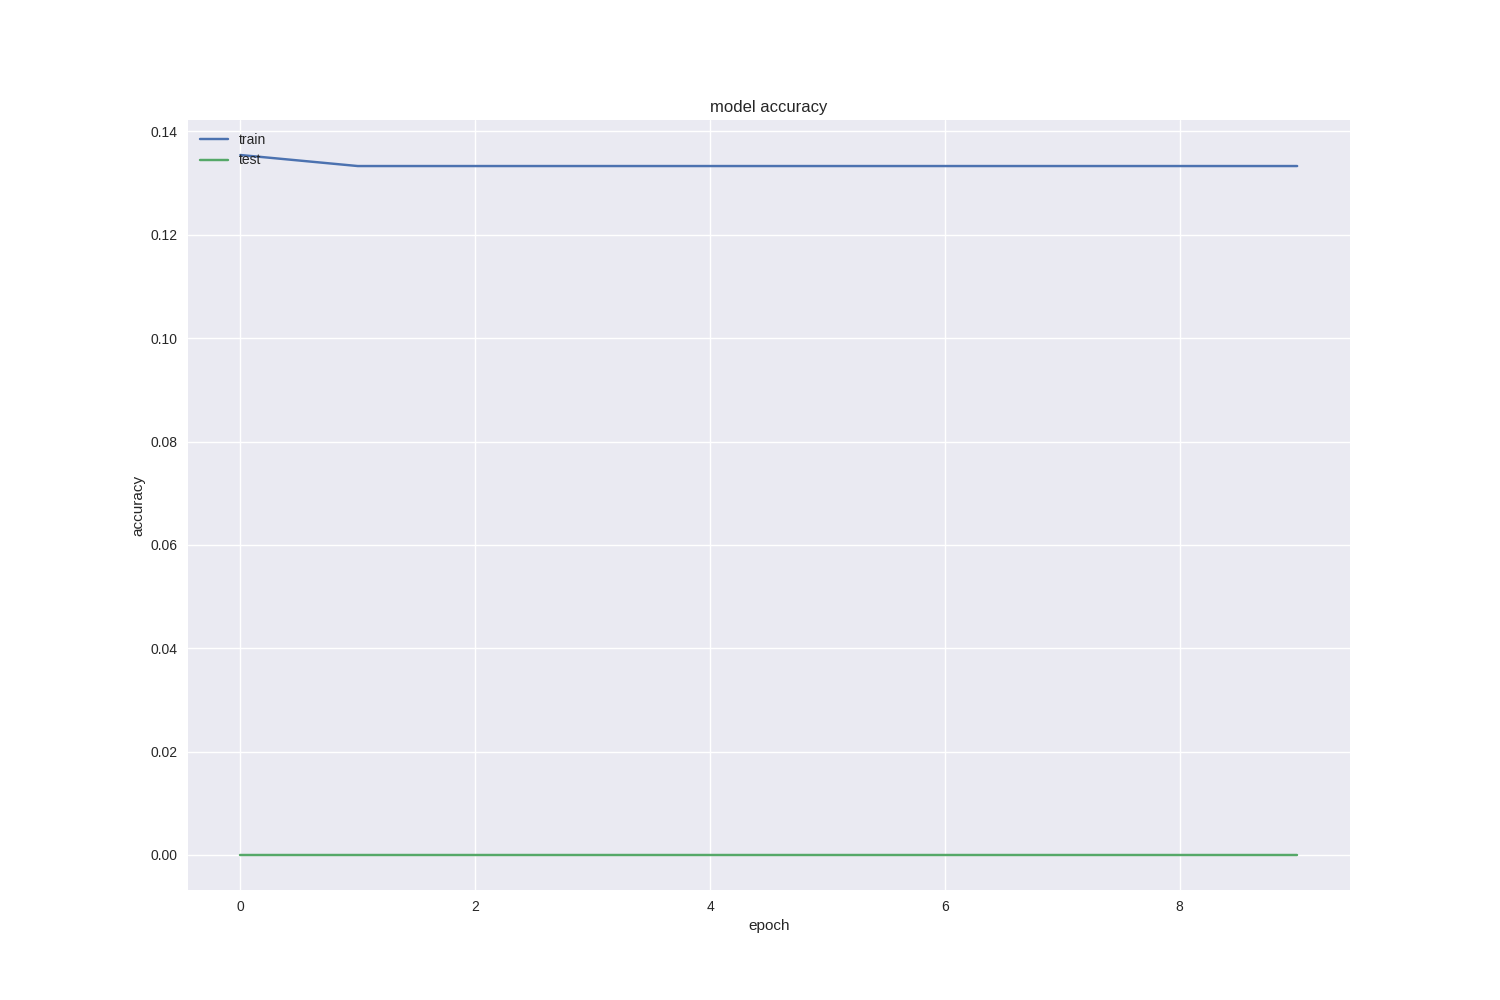
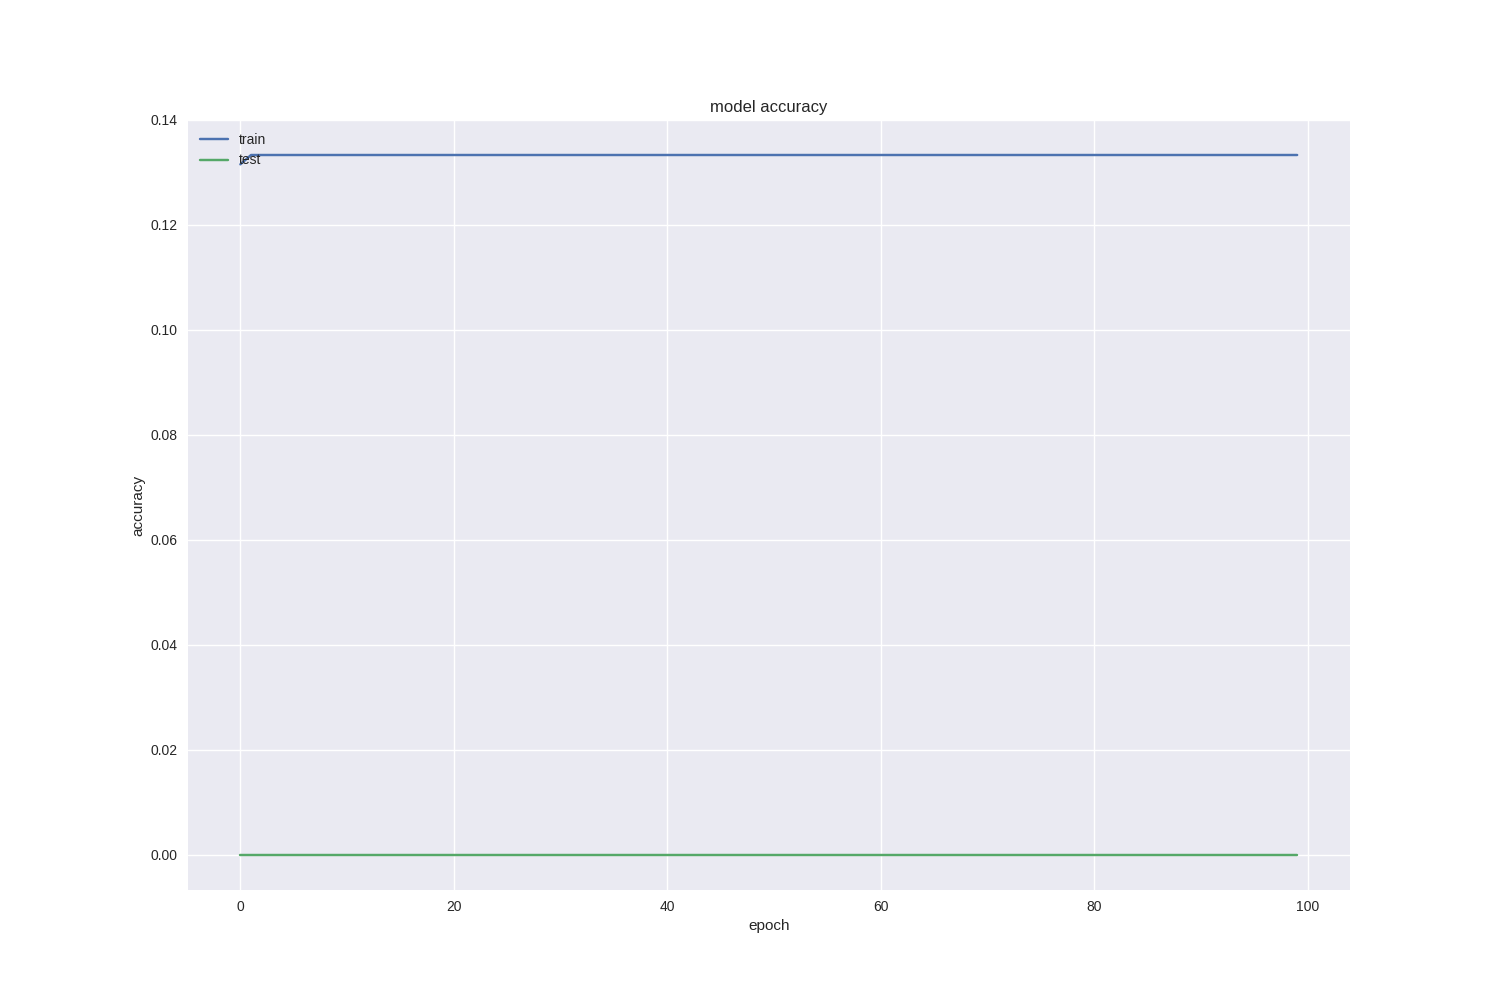
fixed results

diff --git a/5/nn.py b/5/nn.py
@@ -28,7 +28,7 @@ def train_val_test_split(X, y):
 def create_model_simple(activation):
     model = Sequential()
 
-    model.add(Flatten(input_shape=(3, 28, 28)))
+    model.add(Flatten(input_shape=(28, 28, 3)))
     model.add(Dense(4096, activation=activation))
     model.add(Dense(2048, activation=activation))
     model.add(Dense(1024, activation=activation))
@@ -86,7 +86,7 @@ labels = np.array(labels)
 # X_train, y_train, X_val, y_val, X_test, y_test = train_val_test_split(data, labels)
 
 def run_model_simple(activation):
-    model = KerasClassifier(build_fn=lambda: create_model_simple(activation), epochs=10, batch_size=500, validation_split=0.25, verbose=1)
+    model = KerasClassifier(build_fn=lambda: create_model_simple(activation), epochs=100, batch_size=500, validation_split=0.25, verbose=1)
     history = model.fit(data, labels)
     
     plt.figure(figsize=(15,10))
@@ -108,7 +108,7 @@ def run_model_simple(activation):
     plt.savefig('result/simple_loss_'+activation+'.png')
 
 def run_model_complex(activation):
-    model = KerasClassifier(build_fn=lambda: create_model_complex(activation), epochs=10, batch_size=500, validation_split=0.25, verbose=1)
+    model = KerasClassifier(build_fn=lambda: create_model_complex(activation), epochs=100, batch_size=500, validation_split=0.25, verbose=1)
     history = model.fit(data, labels)
     
     plt.figure(figsize=(15,10))
@@ -133,21 +133,42 @@ def run_model_complex(activation):
 #well...
 def find_dropout(d_range):
     with open('dump.txt', 'a') as f:
-        res = list()
+        # res = list()
         for d in d_range:
-            X_train, X_test, y_train, y_test = train_test_split(data, labels, train_size = 0.8, random_state=0)
-            model = KerasClassifier(build_fn=lambda: create_model_dropout(d), epochs=10, batch_size=500, validation_split=0.25, verbose=1)
-            model.fit(X_train, y_train)
+            X_train, X_test, y_train, y_test = train_test_split(data, labels, train_size = 0.9, random_state=0)
+            model = KerasClassifier(build_fn=lambda: create_model_dropout(d), epochs=50, batch_size=500, validation_split=0.11, verbose=1)
+            history = model.fit(X_train, y_train)
 
             preds = model.predict(X_test)
             acc = accuracy_score(y_test, preds)
-            res.append(acc)
-            print 'Dropout: {}, accuracy: {}'.format(d, acc)
+            
+            plt.figure(figsize=(15,10))
+            plt.plot(history.history['acc'])
+            plt.plot(history.history['val_acc'])
+            plt.title('model accuracy')
+            plt.ylabel('accuracy')
+            plt.xlabel('epoch')
+            plt.legend(['train', 'validation'], loc='upper left')
+            plt.savefig('result/drop_' + str(d) + '_accuracy.png')
+            plt.title('Test accuracy: {}'.format(acc))
+
+            plt.figure(figsize=(15,10))
+            plt.plot(history.history['loss'])
+            plt.plot(history.history['val_loss'])
+            plt.title('model loss')
+            plt.ylabel('loss')
+            plt.xlabel('epoch')
+            plt.legend(['train', 'validation'], loc='upper left')
+            plt.savefig('result/drop_' + str(d) + '_loss.png')
+            plt.title('Test accuracy: {}'.format(acc))
+
+
             del model
             gc.collect(0)
             gc.collect(1)
             gc.collect(2)
-            f.write('{}:{}\n'.format(d, acc))
+
+            # f.write('{}:{}\n'.format(d, acc))
 
     plt.figure(figsize=(15,10))
     plt.plot(d_range, res)
@@ -163,7 +184,7 @@ def find_dropout(d_range):
 # run_model_simple('tanh')
 # run_model_simple('relu')
 # run_model_simple('sigmoid')
-# run_model_complex('tanh')
-# run_model_complex('relu')
-# run_model_complex('sigmoid')
-find_dropout(np.arange(0.4, 0.55, 0.05))
+run_model_complex('tanh')
+run_model_complex('relu')
+run_model_complex('sigmoid')
+# find_dropout(np.arange(0.4, 0.525, 0.05))
